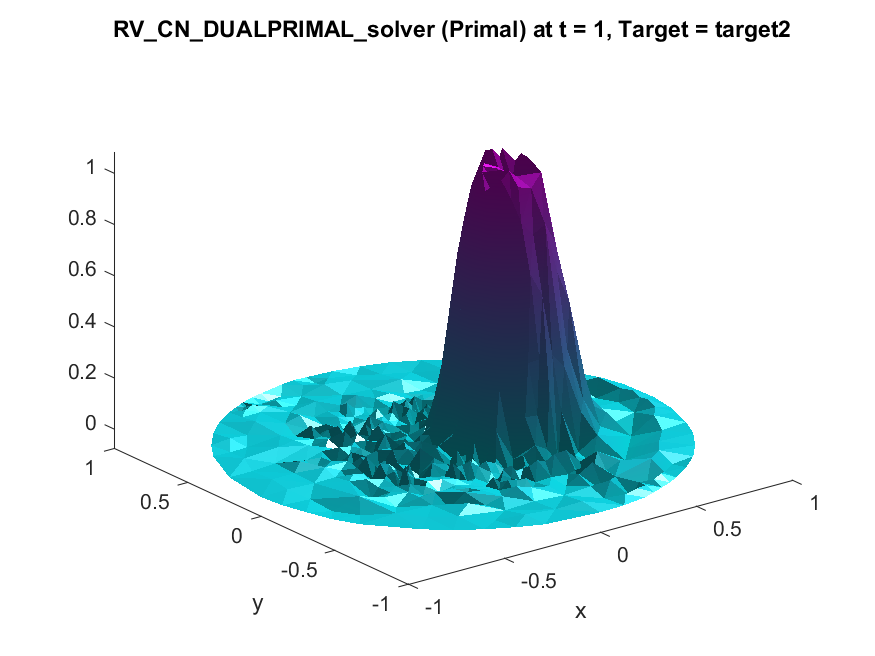
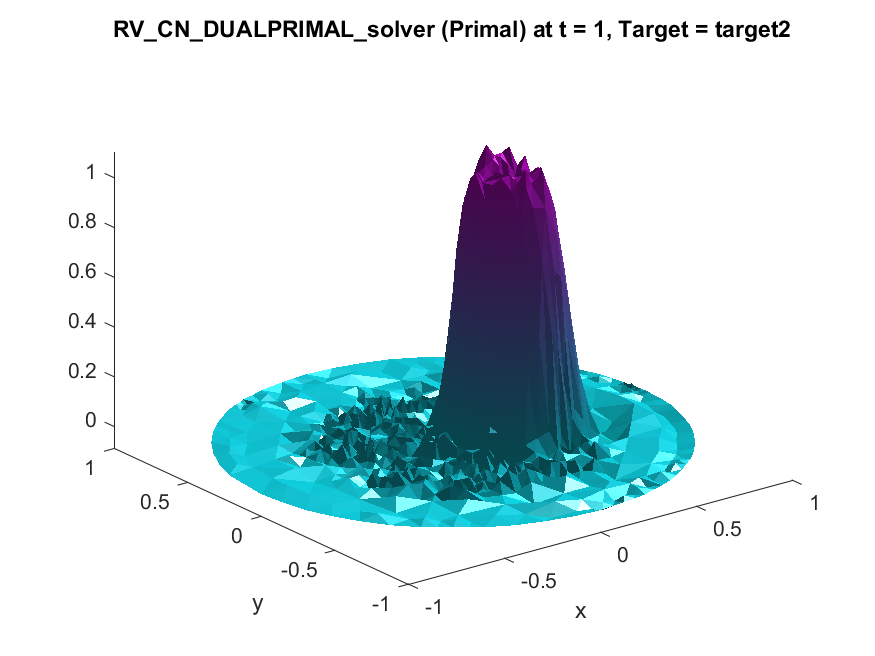
P32

diff --git a/P3_2.m b/P3_2.m
@@ -6,9 +6,9 @@ ICs = {@discontinousIC};
 field = @convectionfield;
 %  plotRefinedFigures(@RV_CN_DUALPRIMAL_solver, @circleg , T, h, ICs, field, 1e-2, @target1)
 fns = {@SUPG_PIC_solver, @SUPG_RK4_solver,@RV_PIC_solver, @RV_RK4_solver, @GFEM_PIC_solver, @GFEM_RK4_solver};
-loads = {@target1,@target2, @target3,@target4,@target5};
+loads = {@target1,@target2, @target3, @target4, @target5};
 
-parfor i = 5:5
+parfor i = 1:5
 %     plotFigures(fns{i}, Rectg(-2, -2.5, 2, 1.5), T,h, ICs, field,1e-2);
     plotRefinedFigures(@RV_CN_DUALPRIMAL_solver, @circleg, T, h, ICs,field,1e-2, loads{i});
 end
@@ -58,7 +58,7 @@ function out = plotRefinedFigures(fn, shape, T, h, ICs,field,k_n, force)
         for s =1:size(h,2)
             [p0,e0,t0] = initmesh(shape,'hmax',h(s));
             filename = "";
-            [xi, u_init, L2E, error_ind, p, e,t,phi, N_points, Err_vec] = refined_mesh_solver(shape, fn, T, h(s), ICs{i}, field, k_n, force);
+            [xi, u_init, L2E, error_ind, p, e,t,phi, N_points, Err_vec, k_n] = refined_mesh_solver(shape, fn, T, h(s), ICs{i}, field, k_n, force);
             filename = strrep(func2str(fn), "_solver", "") + num2str(h(s)^(-1));
             if func2str(ICs{i}) == "smoothIC"
                 filename = filename + "sm";
@@ -107,7 +107,16 @@ function out = plotRefinedFigures(fn, shape, T, h, ICs,field,k_n, force)
      
             colorbar off;
         
+            
             saveas(gcf,"P3/2/" + filename + "m.png");
+            figure;
+            ref_err = trapz(k_n,error_ind,2);
+            interp = pdeprtni(p,t, ref_err');
+            figure;
+            pdeplot(p,e,t, 'XYData',interp);
+            hold;
+            pdeplot(p,e,t);
+            saveas(gcf,"P3/2/" + filename + "h.png");
             
             fileID = fopen("P3/2/" + filename + "z.txt",'w');
             fprintf(fileID,'%1s %1s\n','N','e');
@@ -360,19 +369,22 @@ function [xi, u_init, L2E] = RV_RK4_solver(p,e,t, T, h_max, IC, field,k_n)
 
 end
 
-function [xi, u_init, L2E, error_ind, p, e,t,phi, N_points, Err_vec] = refined_mesh_solver(shape, solver, T, h_max, IC, field, k_n, force)
+function [xi, u_init, L2E, error_ind, p, e,t,phi, N_points, Err_vec,k_n] = refined_mesh_solver(shape, solver, T, h_max, IC, field, k_n, force)
     [p,e,t] = initmesh(shape,'hmax',h_max);
     N_points = [];
     Err_vec = [];
     err = 1;
-    TOL = 3e-3;
+    TOL = 1e-3;
     count = 0;
 %     [xi, u_init, ~, error_ind] = solver(p,e,t,T,h_max, IC ,field,k_n,force);
 %     err = trapz(k_n, sum(error_ind,1));
 %      disp(count + " " + err);
-    while err > TOL
+    while ((err > TOL))
         
         [xi, u_init, ~, error_ind, k_n, phi] = solver(p,e,t,T,h_max, IC ,field,k_n,force);
+        if(count > 75)
+            break;
+        end
 %         figure;
 %         pdeplot(p,e,t, 'XYData',xi, "ZData", xi);
 %         colormap white;
